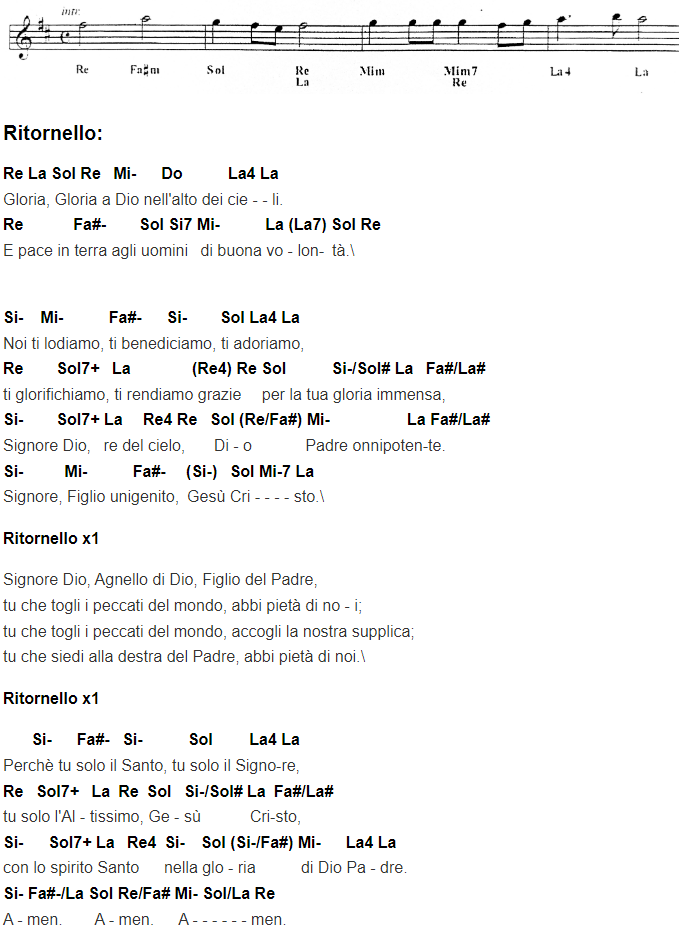
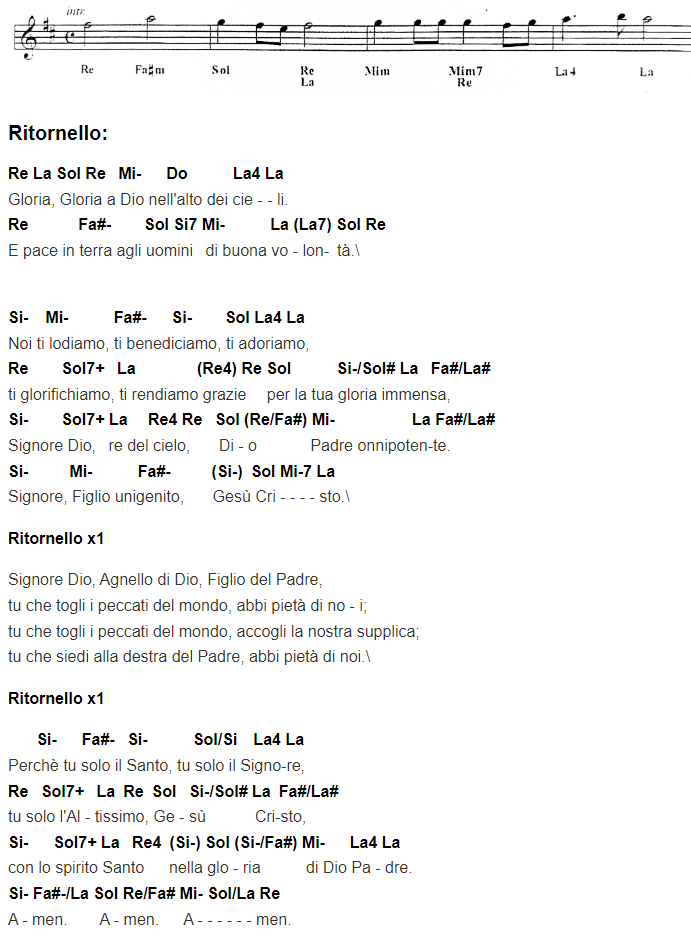
fixed

diff --git a/Messa Bailo/Gloria - Bailo.md b/Messa Bailo/Gloria - Bailo.md
@@ -25,8 +25,8 @@ Noi ti lodiamo, ti benediciamo, ti adoriamo,\
 ti glorifichiamo, ti rendiamo grazie &emsp;per la tua gloria immensa,\
 **Si- &emsp;&ensp; Sol7+ La &emsp;Re4 Re &ensp;Sol (Re/Fa#) Mi- &emsp; &emsp;&emsp;&emsp; La Fa#/La#**\
 Signore Dio, &ensp;re del cielo, &emsp;&ensp;Di - o &emsp;&ensp; &emsp; Padre onnipoten-te.\
-**Si- &emsp;&emsp; Mi- &emsp; &emsp; Fa#- &emsp;(Si-)&ensp; Sol Mi-7 La**\
-Signore, Figlio unigenito,&ensp;Gesù Cri - - - -  sto.\
+**Si- &emsp;&emsp; Mi- &emsp; &emsp; Fa#- &emsp;&emsp; (Si-)&ensp;Sol Mi-7 La**\
+Signore, Figlio unigenito,&ensp;&emsp; Gesù Cri - - - -  sto.\
 
 **Ritornello x1**
 
@@ -37,11 +37,11 @@ tu che siedi alla destra del Padre, abbi pietà di noi.\
 
 **Ritornello x1**
 
-**&emsp;&ensp; Si- &emsp; Fa#- &ensp;Si- &emsp; &emsp; Sol &emsp;&emsp;La4  La**\
+**&emsp;&ensp; Si- &emsp; Fa#- &ensp;Si- &emsp; &emsp; Sol/Si&emsp;La4  La**\
 Perchè tu solo il Santo, tu solo il Signo-re,
 **Re &ensp;Sol7+ &ensp;La&ensp;Re&ensp;Sol &ensp;Si-/Sol# La&ensp;Fa#/La#** \
 tu solo l'Al - tissimo, Ge - sù &emsp;&ensp;&emsp; Cri-sto,
-**Si- &ensp;&ensp; Sol7+ La&ensp; Re4&ensp;Si-&emsp;Sol (Si-/Fa#) Mi- &emsp;  La4 La**\
+**Si- &ensp;&ensp; Sol7+ La&ensp; Re4&ensp;(Si-) Sol (Si-/Fa#) Mi- &emsp;  La4 La**\
 con lo spirito Santo &emsp; nella glo - ria &emsp; &emsp; di Dio Pa - dre.
 **Si- Fa#-/La Sol Re/Fa# Mi- Sol/La Re**\
 A - men. &emsp;&ensp; A - men. &emsp; A - - - - - - men.

diff --git a/Messa Bailo/Santo - Bailo.md b/Messa Bailo/Santo - Bailo.md
@@ -10,7 +10,7 @@ Tommaso Bailo, Renato Giorgi
 
 <img title="title" alt="Alt text" src="./Santo-Bailo-intro.jpg" width="80%"/>
 
-**Sol Si-/Re Do Re Sol(Fondamentale) La- Si- Do Re**
+**Sol Si-/Re Do Re Sol(Fondamentale) La- (Do) Re**
 
 **Sol  Si-/Re Do Re**
 Sa\--nto &emsp; Sa-nto
